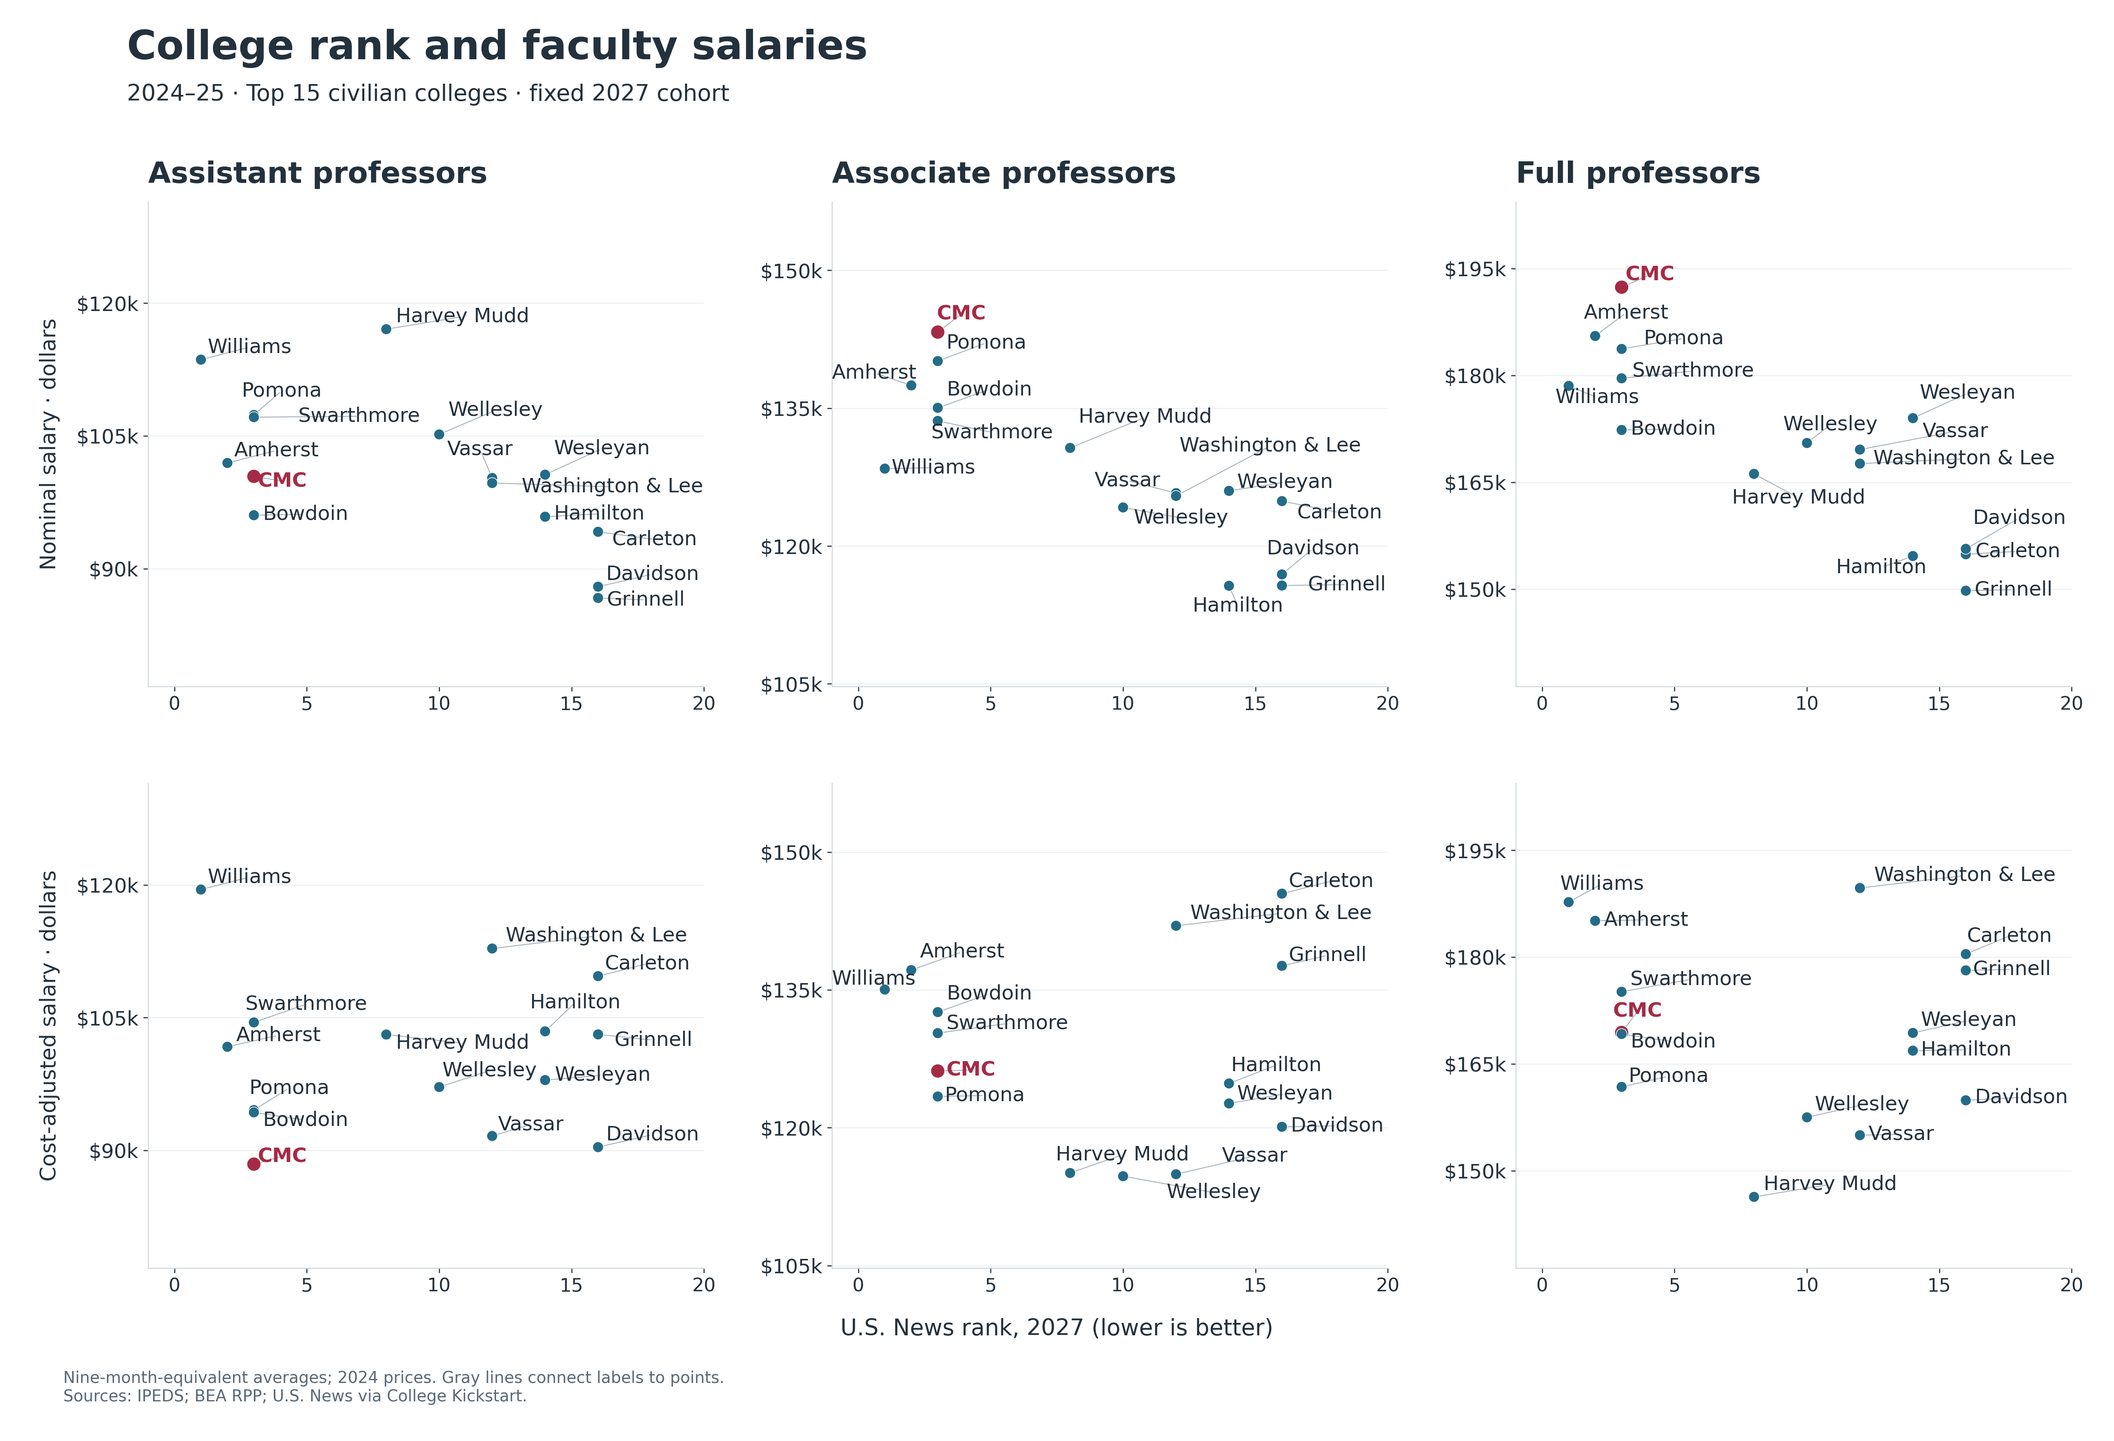
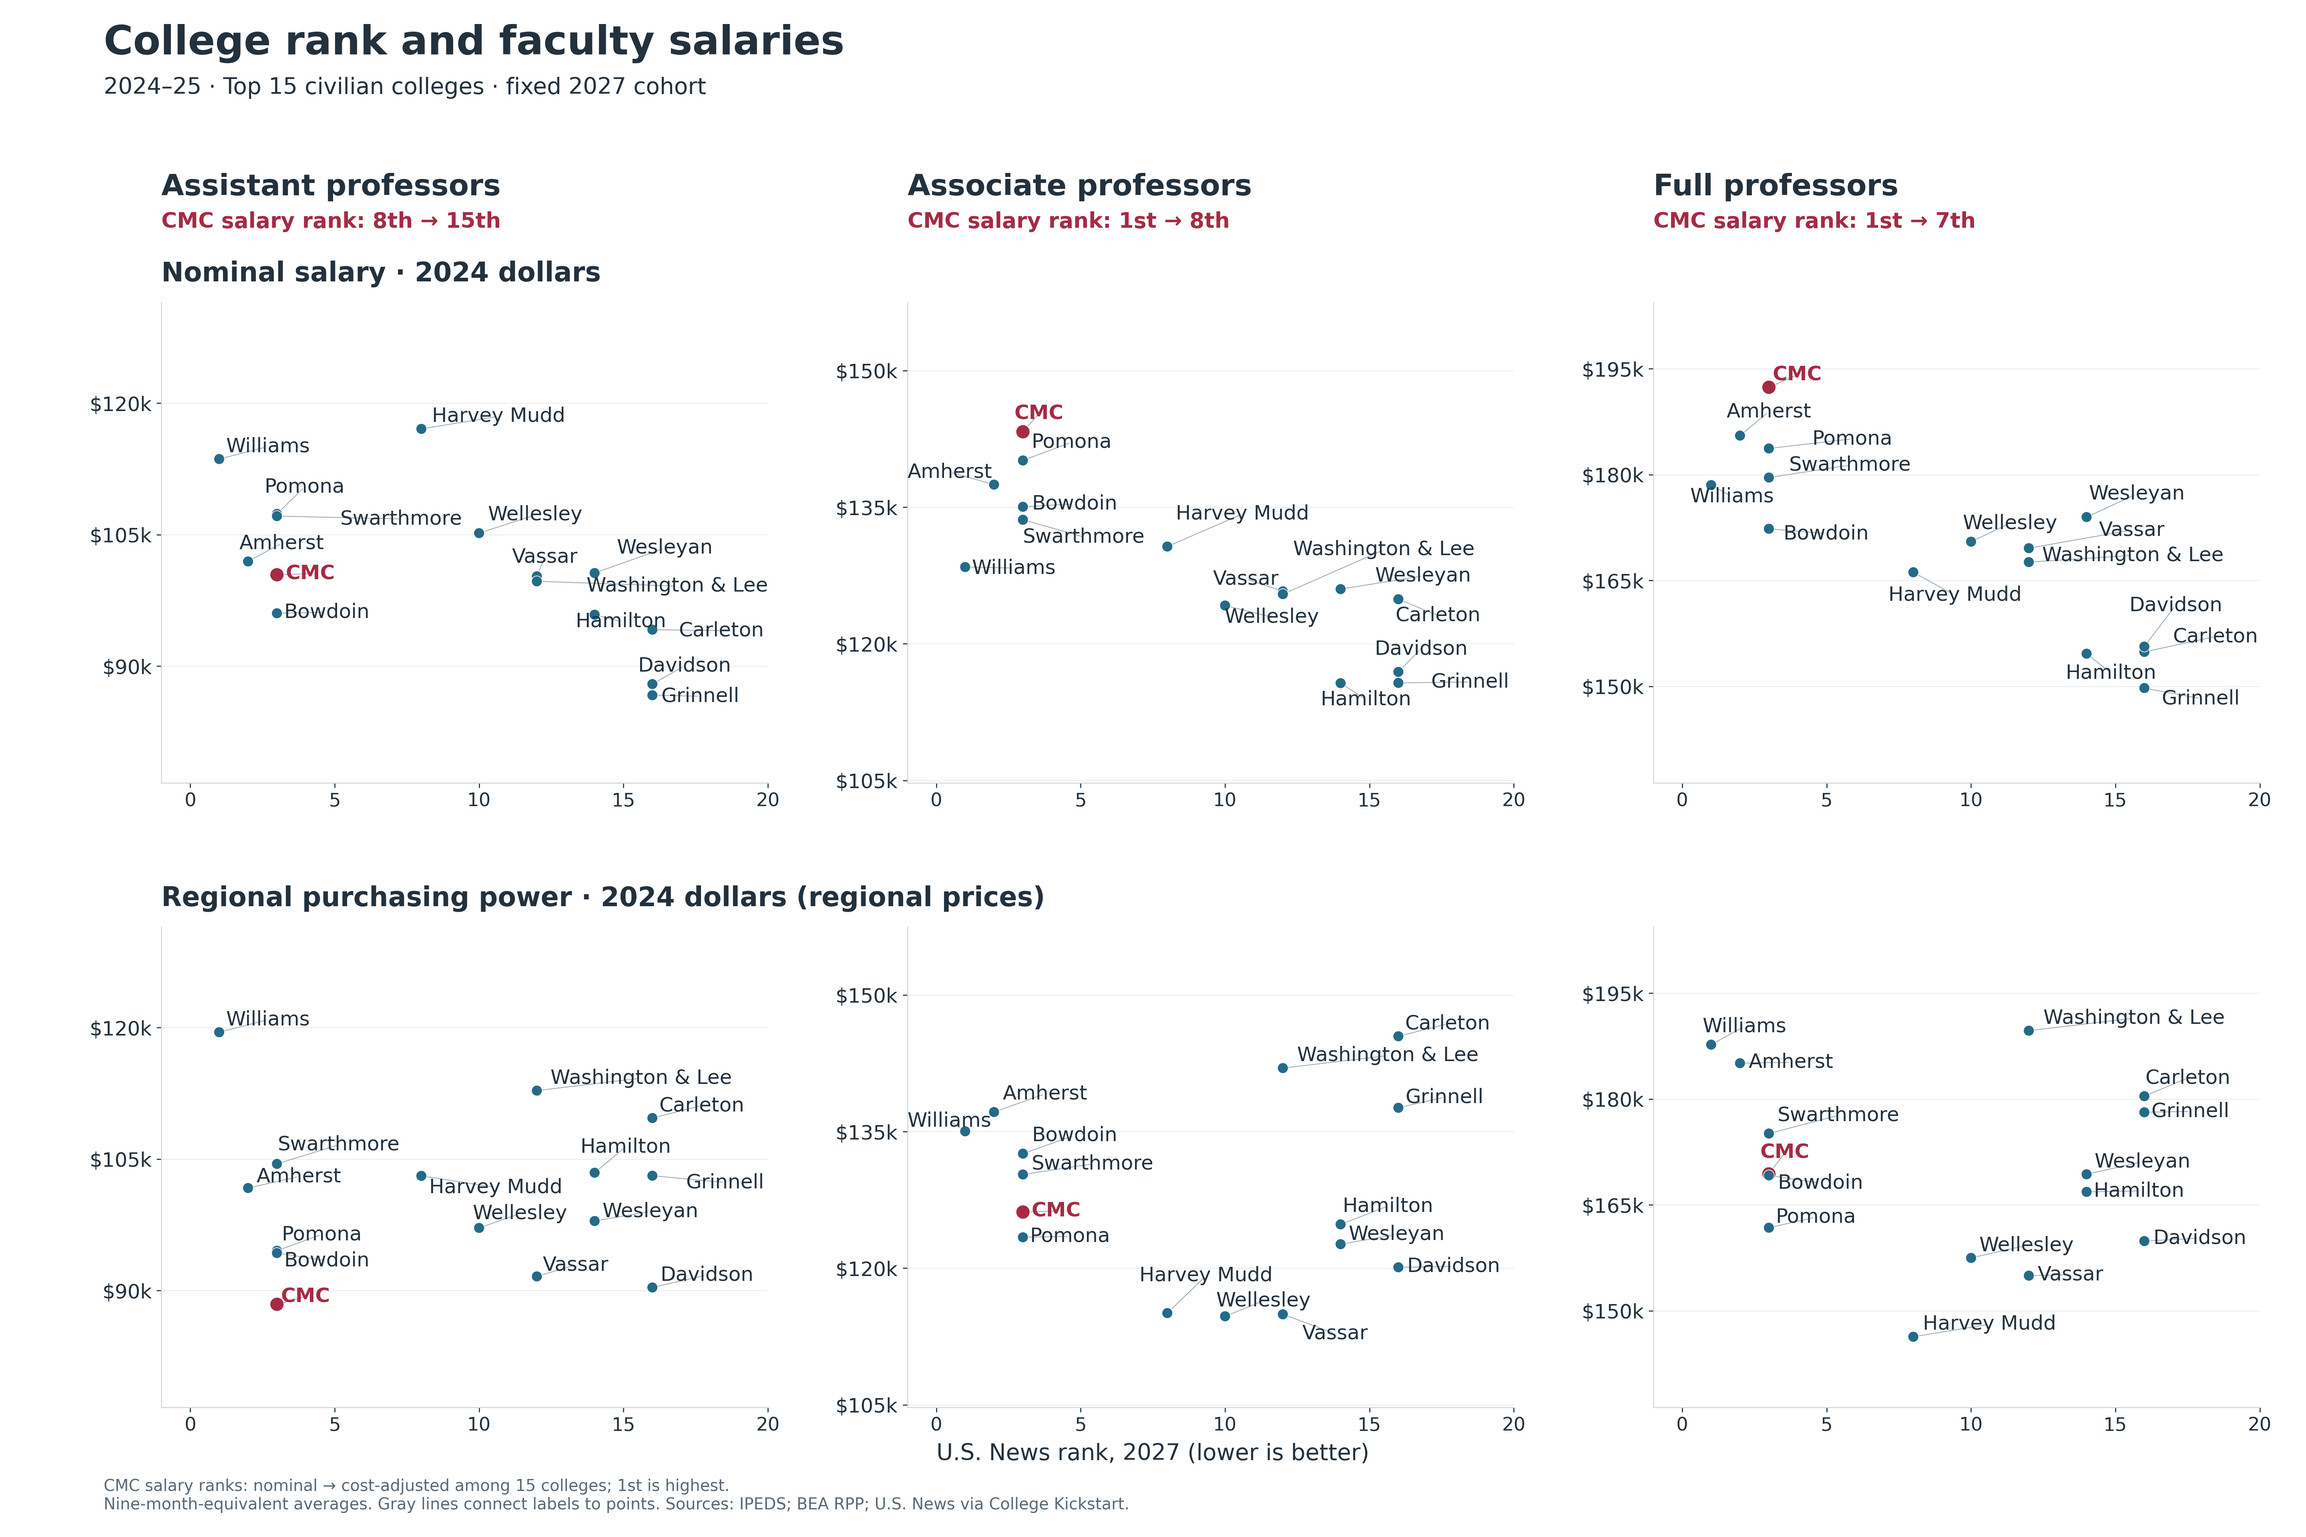
Standardize figure styling and add CMC rank changes to scatterplot

diff --git a/src/make_figures.py b/src/make_figures.py
@@ -11,7 +11,7 @@ import pandas as pd
 matplotlib.use("Agg")
 import matplotlib.pyplot as plt
 from matplotlib.patches import Rectangle
-from matplotlib.ticker import FuncFormatter, MaxNLocator
+from matplotlib.ticker import MaxNLocator
 
 from common import ROOT
 from figure_layout import audit_text, resolve_label_overlaps
@@ -21,8 +21,10 @@ from plot_style import (
     INK,
     RED,
     college_ticks,
+    column_heading,
     figure_heading,
     name,
+    row_heading,
     style_money,
 )
 
@@ -83,7 +85,14 @@ def main():
 
 
 def finish(fig, stem, caption):
-    fig.text(0.03, 0.025, caption, fontsize=12, color="#596976", va="bottom")
+    fig.text(
+        0.045,
+        0.25 / fig.get_figheight(),
+        caption,
+        fontsize=12,
+        color="#596976",
+        va="bottom",
+    )
     fig.set_dpi(240)
     audit = audit_text(fig, stem)
     fig.savefig(
@@ -145,12 +154,17 @@ def ordinal(value):
     return f"{number}{suffix}"
 
 
+def cmc_rank_label(cmc):
+    return f"CMC salary rank: {ordinal(cmc.salary_nominal_rank)} → {ordinal(cmc.salary_cost_adjusted_rank)}"
+
+
 def comparison(data, year):
     latest = data[data.year == year]
-    fig, axes = plt.subplots(
-        1, 3, figsize=(24, max(11, data.unitid.nunique() * 0.4 + 4))
+    height = max(12, data.unitid.nunique() * 0.4 + 5)
+    fig, axes = plt.subplots(1, 3, figsize=(24, height))
+    fig.subplots_adjust(
+        left=0.11, right=0.98, bottom=1.35 / height, top=1 - 2.65 / height, wspace=0.65
     )
-    fig.subplots_adjust(left=0.11, right=0.98, bottom=0.17, top=0.73, wspace=0.65)
     for ax, rank in zip(axes, RANKS):
         order = nominal_order(data, rank, year)
         rank_data = (
@@ -177,27 +191,15 @@ def comparison(data, year):
                 zorder=3,
             )
             ax.scatter(row.salary_cost_adjusted, y, color=color, s=75, zorder=3)
-        ax.set_title(TITLES[rank], loc="left", fontsize=22, pad=42)
-        cmc = rank_data.loc[CMC]
-        ax.text(
-            0,
-            1.02,
-            f"CMC salary rank: {ordinal(cmc.salary_nominal_rank)} → {ordinal(cmc.salary_cost_adjusted_rank)}",
-            transform=ax.transAxes,
-            color=RED,
-            fontsize=16,
-            weight="bold",
-        )
+        column_heading(ax, TITLES[rank], cmc_rank_label(rank_data.loc[CMC]))
         college_ticks(ax, order)
         ax.set_ylim(len(order) - 0.4, -0.7)
-        ax.xaxis.set_major_formatter(FuncFormatter(lambda x, p: f"${x / 1000:,.0f}k"))
+        style_money(ax, axis="x")
         ax.xaxis.set_major_locator(MaxNLocator(nbins=5))
-        ax.grid(axis="x", color="#edf0f2")
-        ax.set_axisbelow(True)
         minimum = rank_data[["salary_nominal", "salary_cost_adjusted"]].min().min()
         maximum = rank_data[["salary_nominal", "salary_cost_adjusted"]].max().max()
         ax.set_xlim(minimum * 0.94, maximum * 1.05)
-    axes[1].set_xlabel("Annual salary (USD)", labelpad=10)
+    fig.supxlabel(f"Annual salary · {year} dollars", y=0.75 / height, fontsize=17)
     handles = [
         plt.Line2D(
             [],
@@ -216,15 +218,16 @@ def comparison(data, year):
             ls="",
             color=BLUE,
             markersize=9,
-            label="Cost-adjusted salary",
+            label="Regional purchasing power",
         ),
     ]
     fig.legend(
         handles=handles,
         loc="upper left",
-        bbox_to_anchor=(0.105, 0.875),
+        bbox_to_anchor=(0.045, 1 - 1.15 / height),
         ncol=2,
         frameon=False,
+        borderaxespad=0,
     )
     figure_heading(
         fig,
@@ -234,7 +237,7 @@ def comparison(data, year):
     return finish(
         fig,
         "current_salary_comparison",
-        f"CMC ranks: nominal → cost-adjusted within {data.unitid.nunique()} colleges; 1st is highest. Rows sorted by nominal salary.\nNine-month-equivalent averages; {year} prices. Sources: IPEDS; BEA RPP; U.S. News via College Kickstart.",
+        f"CMC salary ranks: nominal → cost-adjusted among {data.unitid.nunique()} colleges; 1st is highest. Rows sorted by nominal salary.\nNine-month-equivalent averages. Sources: IPEDS; BEA RPP; U.S. News via College Kickstart.",
     )
 
 
@@ -249,33 +252,34 @@ def historical_trends(data):
         ),
     ]
     years = range(FIRST_PLOT_YEAR, int(data.year.max()) + 1)
-    fig, axes = plt.subplots(3, 3, figsize=(20, 17), sharex=True)
+    height = 18
+    fig, axes = plt.subplots(3, 3, figsize=(24, height), sharex=True)
     fig.subplots_adjust(
-        left=0.075, right=0.98, bottom=0.12, top=0.82, hspace=0.40, wspace=0.23
+        left=0.07,
+        right=0.98,
+        bottom=1.35 / height,
+        top=1 - 2.80 / height,
+        hspace=0.38,
+        wspace=0.23,
     )
     for column, rank in enumerate(RANKS):
+        column_heading(axes[0, column], TITLES[rank])
         rank_data = data[data.academic_rank == rank]
         upper_limit = rank_data[[measure for measure, _ in measures]].max().max() * 1.08
         for row, (measure, _) in enumerate(measures):
             ax = axes[row, column]
             draw_history_panel(ax, rank_data, measure, years)
-            if row == 0:
-                ax.set_title(TITLES[rank], loc="left", fontsize=21, pad=12)
             ax.set_ylim(0, upper_limit)
             ax.set_xlim(FIRST_PLOT_YEAR - 0.5, data.year.max() + 0.5)
             ax.yaxis.set_major_locator(MaxNLocator(nbins=5))
             ax.set_xticks(list(range(FIRST_PLOT_YEAR, int(data.year.max()) + 1, 4)))
     for row, (_, title) in enumerate(measures):
-        y = 0.88 if row == 0 else axes[row, 0].get_position().y1 + 0.018
-        fig.text(0.075, y, title, fontsize=20, weight="bold")
-    fig.supxlabel("Academic year beginning in", y=0.075, fontsize=17)
+        row_heading(axes[row, 0], title)
+    fig.supxlabel("Academic year beginning in", y=0.75 / height, fontsize=17)
     figure_heading(
         fig,
-        f"CMC salaries, {FIRST_PLOT_YEAR}–{int(data.year.max())}",
-        cohort_label(data),
-        x=0.075,
-        title_y=0.99,
-        subtitle_y=0.95,
+        "Faculty salaries over time",
+        f"{FIRST_PLOT_YEAR}–{int(data.year.max())} · {cohort_label(data)}",
     )
     handles = [
         plt.Line2D([], [], color=RED, lw=2.5, label="CMC"),
@@ -284,15 +288,16 @@ def historical_trends(data):
     ]
     fig.legend(
         handles=handles,
-        bbox_to_anchor=(0.065, 0.935),
+        bbox_to_anchor=(0.045, 1 - 1.15 / height),
         loc="upper left",
         ncol=3,
         frameon=False,
+        borderaxespad=0,
     )
     return finish(
         fig,
         "historical_salary_trends",
-        "× 2019 CMC reporting break; not a verified pay cut. Dotted lines: 2012/2016 conversion changes.\nNine-month-equivalent averages. Sources: NCES IPEDS; BEA RPP; PCE via FRED.",
+        "× 2019 CMC reporting break; not a verified pay cut. Dotted lines: 2012/2016 conversion changes.\nNine-month-equivalent averages. Sources: IPEDS; BEA RPP; PCE via FRED; U.S. News via College Kickstart.",
     )
 
 
@@ -327,12 +332,20 @@ def draw_history_panel(ax, rank_data, measure, years):
 
 def ranking_relationship(data, year):
     measures = ["salary_nominal", "salary_cost_adjusted"]
-    fig, axes = plt.subplots(2, 3, figsize=(22, 15))
+    height = 16
+    fig, axes = plt.subplots(2, 3, figsize=(24, height))
     fig.subplots_adjust(
-        left=0.07, right=0.98, bottom=0.12, top=0.86, hspace=0.20, wspace=0.23
+        left=0.07,
+        right=0.98,
+        bottom=1.35 / height,
+        top=1 - 3.15 / height,
+        hspace=0.30,
+        wspace=0.23,
     )
     for column, rank in enumerate(RANKS):
         rank_data = data[data.year.eq(year) & data.academic_rank.eq(rank)]
+        cmc = rank_data[rank_data.college == CMC].iloc[0]
+        column_heading(axes[0, column], TITLES[rank], cmc_rank_label(cmc))
         low = rank_data[measures].min().min() - 10000
         high = rank_data[measures].max().max() + 12000
         for row, measure in enumerate(measures):
@@ -348,8 +361,6 @@ def ranking_relationship(data, year):
             )
             ax.set(xlim=(-1, data.usnews_rank_2027.max() + 4), ylim=(low, high))
             style_money(ax)
-            if row == 0:
-                ax.set_title(TITLES[rank], loc="left", fontsize=22, pad=14)
             ax.xaxis.set_major_locator(MaxNLocator(nbins=5, integer=True))
             ax.yaxis.set_major_locator(MaxNLocator(nbins=5))
             texts = [
@@ -366,25 +377,24 @@ def ranking_relationship(data, year):
             resolve_label_overlaps(
                 ax, texts, list(zip(rank_data.usnews_rank_2027, rank_data[measure]))
             )
-            if column == 0:
-                ax.set_ylabel(
-                    "Nominal salary · dollars"
-                    if row == 0
-                    else "Cost-adjusted salary · dollars",
-                    labelpad=12,
-                )
-    fig.supxlabel("U.S. News rank, 2027 (lower is better)", y=0.07, fontsize=17)
+    row_titles = [
+        f"Nominal salary · {year} dollars",
+        f"Regional purchasing power · {year} dollars (regional prices)",
+    ]
+    for row, title in enumerate(row_titles):
+        row_heading(axes[row, 0], title)
+    fig.supxlabel(
+        "U.S. News rank, 2027 (lower is better)", y=0.75 / height, fontsize=17
+    )
     figure_heading(
         fig,
         "College rank and faculty salaries",
         f"{year}–{str(year + 1)[-2:]} · {cohort_label(data)}",
-        x=0.06,
-        subtitle_y=0.93,
     )
     return finish(
         fig,
         "college_rank_and_salary",
-        f"Nine-month-equivalent averages; {year} prices. Gray lines connect labels to points.\nSources: IPEDS; BEA RPP; U.S. News via College Kickstart.",
+        f"CMC salary ranks: nominal → cost-adjusted among {data.unitid.nunique()} colleges; 1st is highest.\nNine-month-equivalent averages. Gray lines connect labels to points. Sources: IPEDS; BEA RPP; U.S. News via College Kickstart.",
     )
 
 

diff --git a/src/plot_style.py b/src/plot_style.py
@@ -38,9 +38,10 @@ def name(s):
     return NAMES.get(s, s.replace(" College", "").replace(" University", ""))
 
 
-def style_money(ax):
-    ax.yaxis.set_major_formatter(FuncFormatter(lambda x, p: f"${x / 1000:,.0f}k"))
-    ax.grid(axis="y", color="#edf0f2")
+def style_money(ax, axis="y"):
+    money_axis = ax.xaxis if axis == "x" else ax.yaxis
+    money_axis.set_major_formatter(FuncFormatter(lambda x, p: f"${x / 1000:,.0f}k"))
+    ax.grid(axis=axis, color="#edf0f2")
     ax.set_axisbelow(True)
 
 
@@ -53,6 +54,46 @@ def college_ticks(ax, colleges):
             label.set_weight("bold")
 
 
-def figure_heading(fig, title, subtitle, x=0.03, title_y=0.98, subtitle_y=0.92):
-    fig.suptitle(title, x=x, y=title_y, ha="left", fontsize=30, weight="bold")
-    fig.text(x, subtitle_y, subtitle, fontsize=17)
+def figure_heading(fig, title, subtitle):
+    """Use the same physical header spacing, even when figure heights differ."""
+    height = fig.get_figheight()
+    fig.suptitle(
+        title,
+        x=0.045,
+        y=1 - 0.25 / height,
+        ha="left",
+        va="top",
+        fontsize=30,
+        weight="bold",
+    )
+    fig.text(0.045, 1 - 0.80 / height, subtitle, fontsize=17, va="top")
+
+
+def column_heading(ax, title, rank_label=None):
+    fig = ax.figure
+    height = fig.get_figheight()
+    left = ax.get_position().x0
+    fig.text(left, 1 - 1.80 / height, title, fontsize=22, weight="bold", va="top")
+    if rank_label:
+        fig.text(
+            left,
+            1 - 2.20 / height,
+            rank_label,
+            fontsize=16,
+            color=RED,
+            weight="bold",
+            va="top",
+        )
+
+
+def row_heading(ax, title):
+    fig = ax.figure
+    position = ax.get_position()
+    fig.text(
+        position.x0,
+        position.y1 + 0.16 / fig.get_figheight(),
+        title,
+        fontsize=20,
+        weight="bold",
+        va="bottom",
+    )

diff --git a/README.md b/README.md
@@ -51,7 +51,7 @@ RPP is a spatial price index: its change alone is **not local inflation**. Metro
 
 ## Reading the three figures
 
-All results below refer to the **15-school plotting cohort**. School labels repeat across the three rank columns because the orders differ. The current salary comparison is independently sorted by each faculty rank's **2024 nominal salary**, highest first.
+All results below refer to the **15-school plotting cohort**. School labels repeat across the three rank columns because the orders differ. The current salary comparison is independently sorted by each faculty rank's **2024 nominal salary**, highest first. All three figures use the same width, typography, heading hierarchy, dollar formatting, and CMC highlight. The two current-year figures show identical CMC nominal → cost-adjusted rank annotations; the historical rows distinguish nominal, national-inflation-adjusted, and regional-plus-national adjustments.
 
 ### 1. Current salary comparison
 
@@ -81,7 +81,7 @@ Nominal growth does not necessarily preserve purchasing power. From **2018 to 20
 
 ### 3. College rank and salary
 
-[Open the figure](figures/college_rank_and_salary.png). Columns are faculty ranks; rows compare nominal and cost-adjusted salaries using identical axes within each column. Lower U.S. News ranks are better, so the highest-ranked colleges are on the left. CMC alone is highlighted in red and bold; every other college uses the same point and label styling. Fine gray lines connect displaced names to their dots; they do not show changes over time.
+[Open the figure](figures/college_rank_and_salary.png). Columns are faculty ranks; the red annotations show CMC’s nominal → cost-adjusted salary ranks within the cohort (8th → 15th, 1st → 8th, and 1st → 7th). Large row headings distinguish nominal salary from regional purchasing power, both in 2024 dollars, using identical axes within each column. Lower U.S. News ranks are better, so the highest-ranked colleges are on the left. CMC alone is highlighted in red and bold; every other college uses the same point and label styling. Fine gray lines connect displaced names to their dots; they do not show changes over time.
 
 Nominal salaries generally decline as the published college rank increases within this selected group. After regional adjustment, that pattern is much weaker: Carleton (published rank 16) leads associate purchasing power, and Washington and Lee (rank 12) leads full-professor purchasing power. The plot is descriptive; the small, selected sample and differences in faculty composition do not support a causal claim about college ranking and compensation.
 
